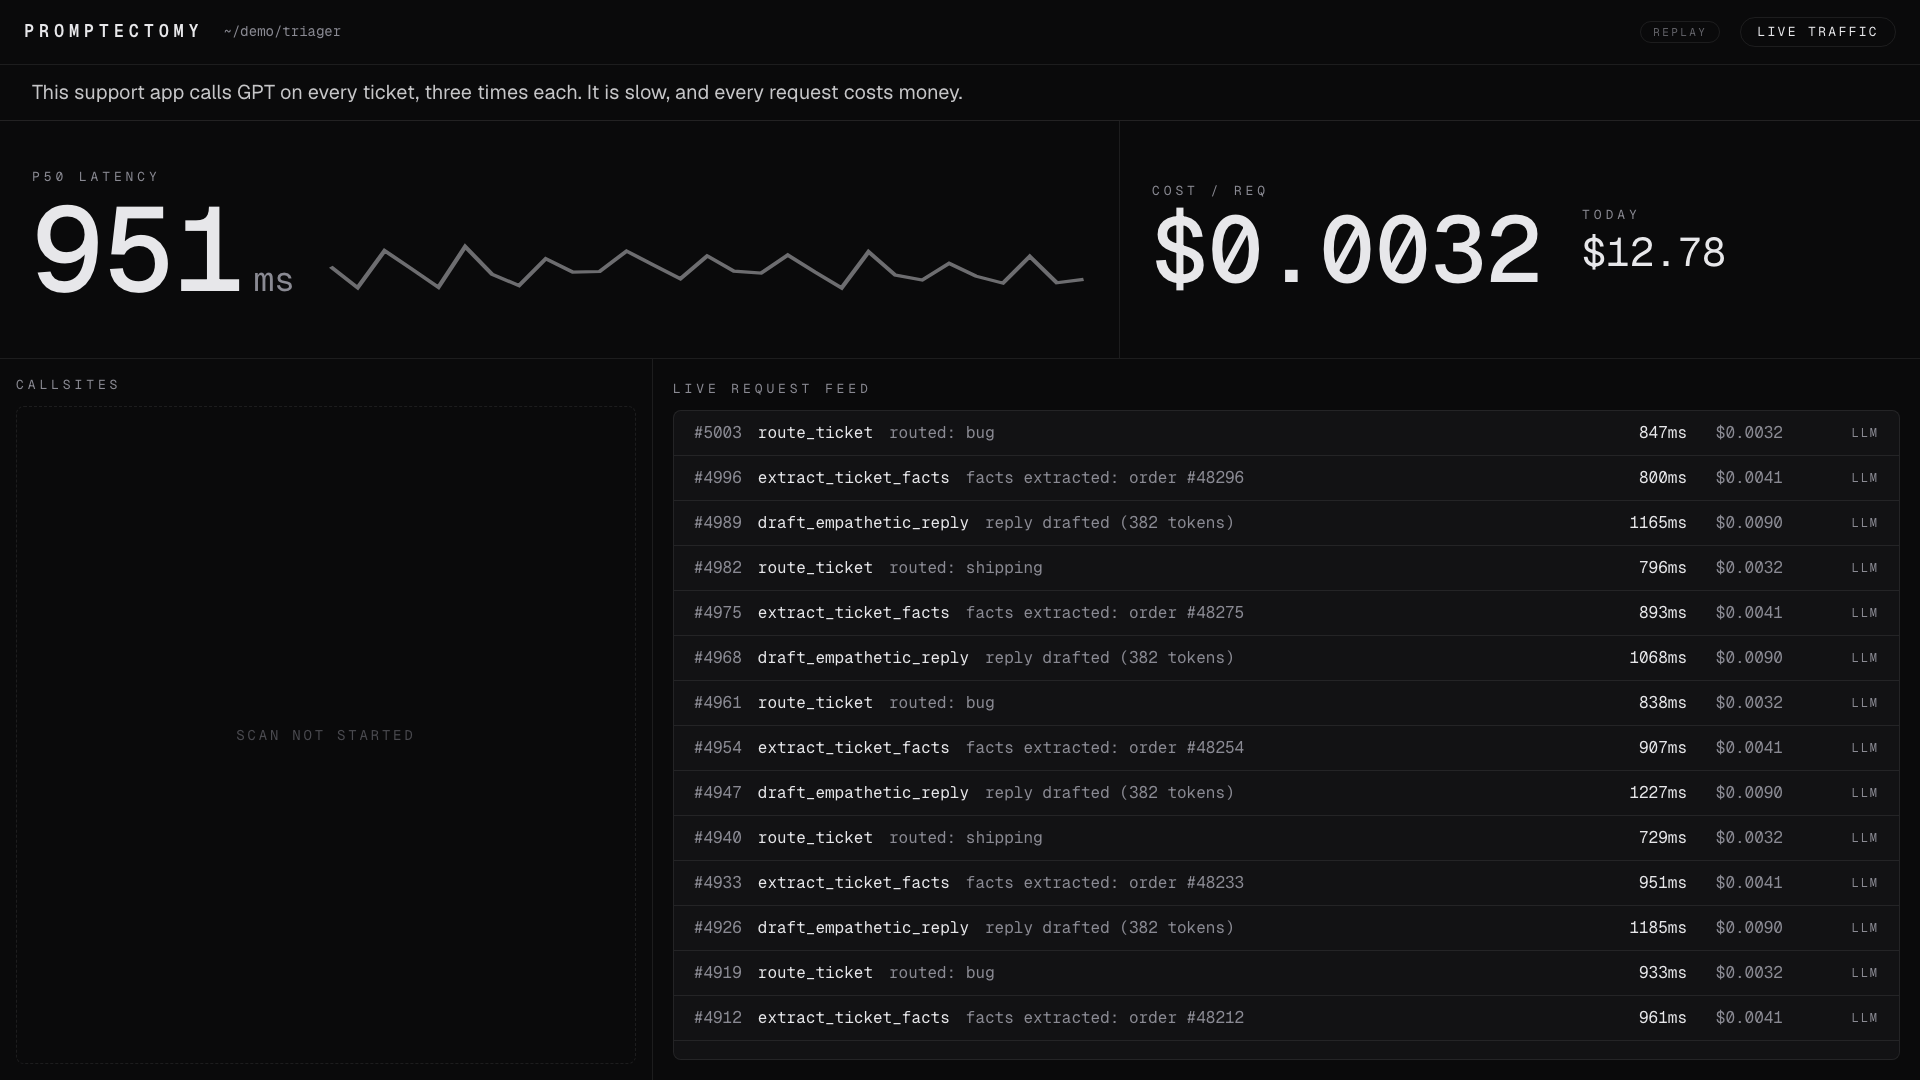
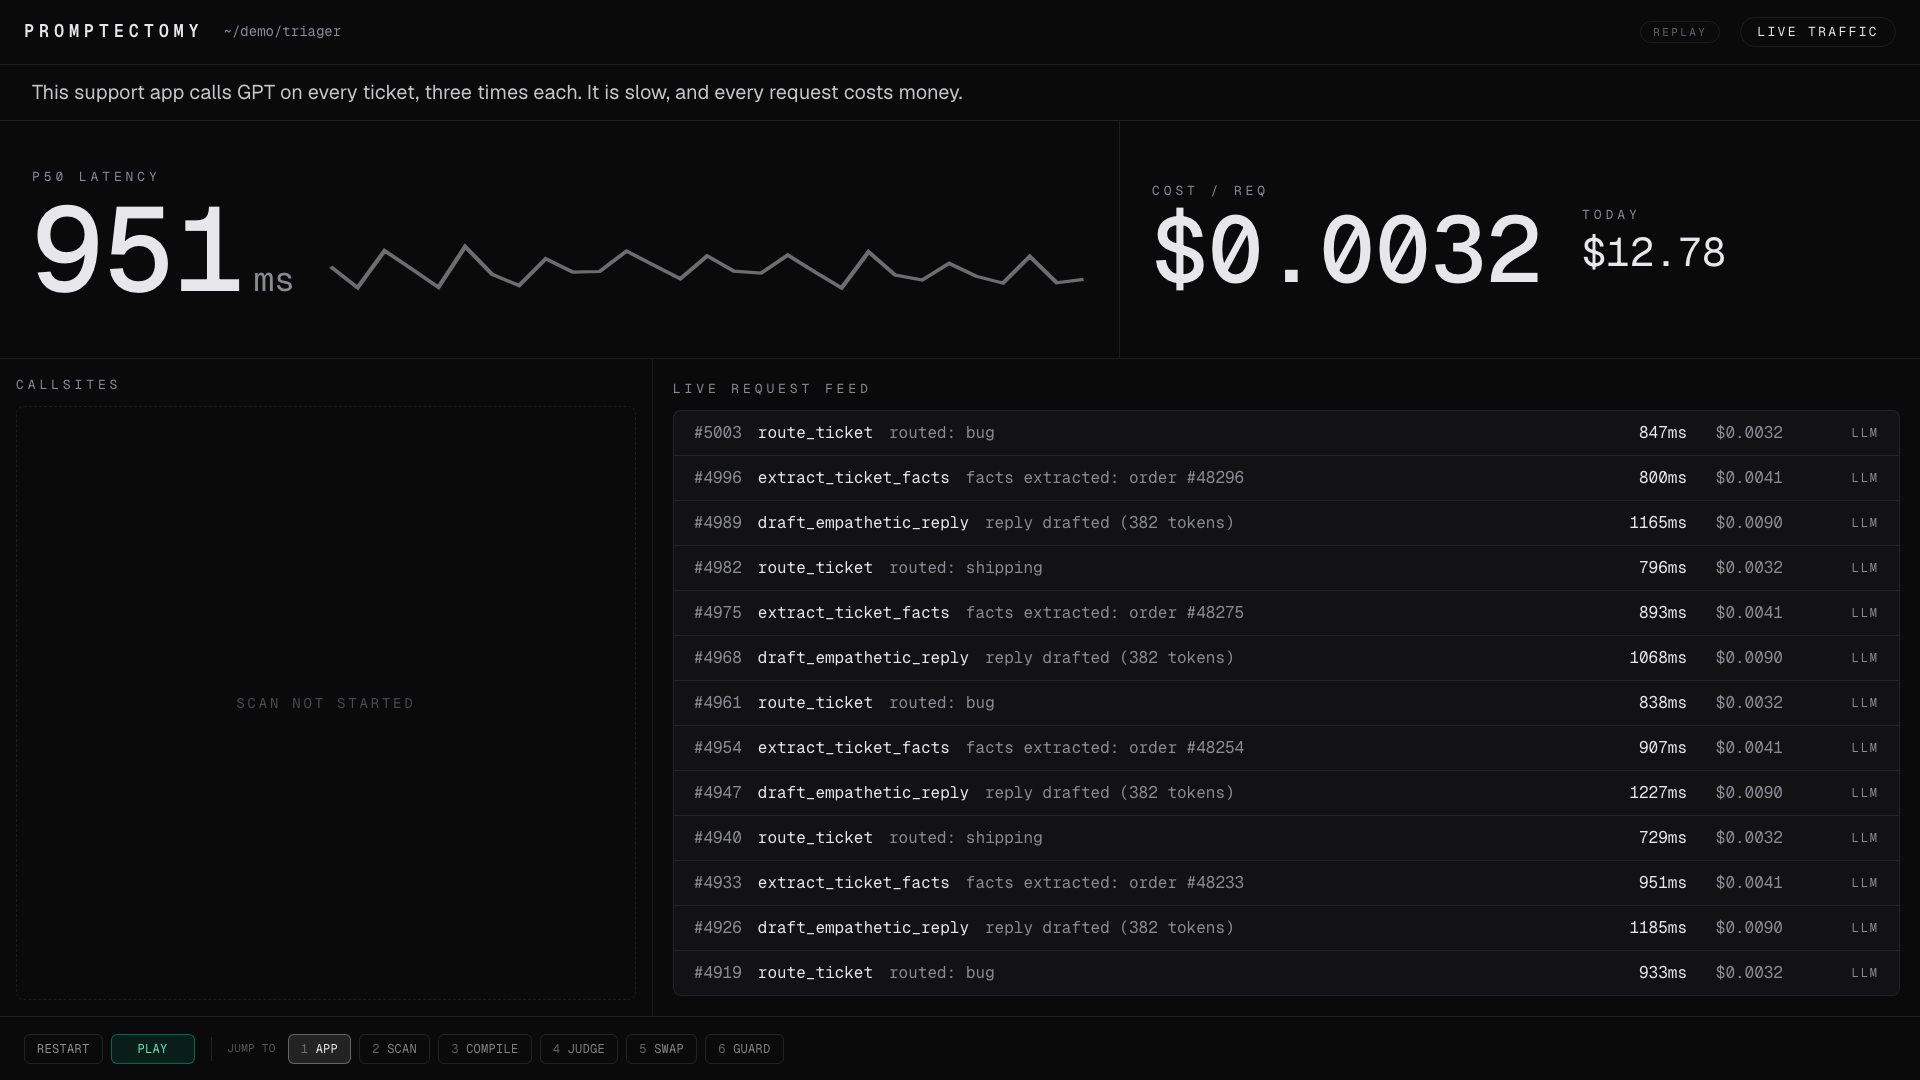
Make the demo interactive: play/pause/restart + jump-to-beat controls
Refactored useEventStream to a playhead model (play, pause, restart, seek-to-beat) while
keeping the ?until= instant-seek path the tests use. Added a bottom control bar so the
presenter can click through the 6 beats, pause on the hot-swap, and replay. tsc clean,
Playwright 8/8, screenshots refreshed.

Claude-Session: https://claude.ai/code/session_015d9CNbHRWcF1xMgNYyVSu5

diff --git a/ui/lib/useEventStream.ts b/ui/lib/useEventStream.ts
@@ -1,18 +1,54 @@
 "use client";
 
-import { useEffect, useReducer, useRef } from "react";
+import { useCallback, useEffect, useRef, useState } from "react";
 import { PipelineEvent, RecordedLine } from "./contracts";
-import { initialState, reduce, type DashState } from "./state";
+import { initialState, reduce, type Beat, type DashState } from "./state";
 
 export interface StreamOptions {
-  // Live SSE endpoint. When set, fixture replay is skipped: same event shape on the wire.
   live?: string | null;
-  // URL serving recorded NDJSON ({at_ms, event} per line). The demo-director source.
   fixture?: string;
-  // Replay speed multiplier: 2 = twice as fast. Ignored for live streams.
   speed?: number;
-  // Deterministic seek: apply every event with at_ms <= until instantly, then hold.
   until?: number | null;
+}
+
+export interface DemoControls {
+  playing: boolean;
+  atEnd: boolean;
+  ready: boolean;
+  play: () => void;
+  pause: () => void;
+  toggle: () => void;
+  restart: () => void;
+  seekBeat: (beat: Beat) => void;
+}
+
+interface Line {
+  at_ms: number;
+  event: ReturnType<typeof RecordedLine.parse>["event"];
+}
+
+const TICK_MS = 60;
+
+function foldTo(lines: Line[], toMs: number): DashState {
+  let s = initialState;
+  for (const { at_ms, event } of lines) if (at_ms <= toMs) s = reduce(s, event);
+  return s;
+}
+
+// The at_ms just before each beat's successor begins, so seeking a beat shows it fully realized.
+function beatEnds(lines: Line[]): Record<number, number> {
+  const firstSeen: Record<number, number> = {};
+  let s = initialState;
+  for (const { at_ms, event } of lines) {
+    s = reduce(s, event);
+    if (firstSeen[s.beat] === undefined) firstSeen[s.beat] = at_ms;
+  }
+  const max = lines.length ? lines[lines.length - 1].at_ms : 0;
+  const ends: Record<number, number> = {};
+  for (let b = 1 as number; b <= 6; b++) {
+    ends[b] = firstSeen[b + 1] !== undefined ? firstSeen[b + 1] - 1 : max;
+  }
+  return ends;
 }
 
 export function useEventStream({
@@ -20,47 +56,99 @@ export function useEventStream({
   fixture = "/fixture",
   speed = 1,
   until = null,
-}: StreamOptions): DashState {
-  const [state, dispatch] = useReducer(reduce, initialState);
-  const timers = useRef<ReturnType<typeof setTimeout>[]>([]);
+}: StreamOptions): { state: DashState; controls: DemoControls } {
+  const [state, setState] = useState<DashState>(initialState);
+  const [playing, setPlaying] = useState(false);
+  const [atEnd, setAtEnd] = useState(false);
+  const [ready, setReady] = useState(false);
 
+  const lines = useRef<Line[]>([]);
+  const ends = useRef<Record<number, number>>({});
+  const maxAt = useRef(0);
+  const head = useRef(0);
+
+  // Live SSE: same wire shape, no player controls.
   useEffect(() => {
-    if (live) {
-      const es = new EventSource(live);
-      es.onmessage = (msg) => {
-        const parsed = PipelineEvent.safeParse(JSON.parse(msg.data));
-        if (parsed.success) dispatch(parsed.data);
-        else console.error("contract violation on live stream", parsed.error.issues);
-      };
-      return () => es.close();
-    }
+    if (!live) return;
+    const es = new EventSource(live);
+    es.onmessage = (msg) => {
+      const parsed = PipelineEvent.safeParse(JSON.parse(msg.data));
+      if (parsed.success) setState((s) => reduce(s, parsed.data));
+      else console.error("contract violation on live stream", parsed.error.issues);
+    };
+    return () => es.close();
+  }, [live]);
 
+  // Load the recorded fixture once.
+  useEffect(() => {
+    if (live) return;
     let cancelled = false;
     (async () => {
       const res = await fetch(fixture);
       const text = await res.text();
       if (cancelled) return;
-      const lines = text
+      const parsed = text
         .split("\n")
         .filter((l) => l.trim().length > 0)
-        .map((l) => RecordedLine.parse(JSON.parse(l)));
-
+        .map((l) => RecordedLine.parse(JSON.parse(l)) as Line);
+      lines.current = parsed;
+      ends.current = beatEnds(parsed);
+      maxAt.current = parsed.length ? parsed[parsed.length - 1].at_ms : 0;
+      setReady(true);
       if (until !== null) {
-        for (const { at_ms, event } of lines) if (at_ms <= until) dispatch(event);
-        return;
-      }
-      for (const { at_ms, event } of lines) {
-        const t = setTimeout(() => dispatch(event), at_ms / speed);
-        timers.current.push(t);
+        head.current = until;
+        setState(foldTo(parsed, until));
+      } else {
+        head.current = 0;
+        setState(initialState);
+        setPlaying(true);
       }
     })();
-
     return () => {
       cancelled = true;
-      for (const t of timers.current) clearTimeout(t);
-      timers.current = [];
     };
-  }, [live, fixture, speed, until]);
+  }, [live, fixture, until]);
 
-  return state;
+  // The playhead loop: advance wall time, re-fold. 144 events is cheap to re-fold each tick.
+  useEffect(() => {
+    if (live || until !== null || !playing) return;
+    const id = setInterval(() => {
+      head.current += TICK_MS * speed;
+      if (head.current >= maxAt.current) {
+        head.current = maxAt.current;
+        setState(foldTo(lines.current, head.current));
+        setPlaying(false);
+        setAtEnd(true);
+        return;
+      }
+      setState(foldTo(lines.current, head.current));
+    }, TICK_MS);
+    return () => clearInterval(id);
+  }, [live, until, playing, speed]);
+
+  const play = useCallback(() => {
+    if (head.current >= maxAt.current) head.current = 0;
+    setAtEnd(false);
+    setPlaying(true);
+  }, []);
+  const pause = useCallback(() => setPlaying(false), []);
+  const toggle = useCallback(() => (playing ? pause() : play()), [playing, play, pause]);
+  const restart = useCallback(() => {
+    head.current = 0;
+    setState(initialState);
+    setAtEnd(false);
+    setPlaying(true);
+  }, []);
+  const seekBeat = useCallback((beat: Beat) => {
+    const target = ends.current[beat] ?? 0;
+    head.current = target;
+    setPlaying(false);
+    setAtEnd(target >= maxAt.current);
+    setState(foldTo(lines.current, target));
+  }, []);
+
+  return {
+    state,
+    controls: { playing, atEnd, ready, play, pause, toggle, restart, seekBeat },
+  };
 }

diff --git a/ui/components/DemoControls.tsx b/ui/components/DemoControls.tsx
@@ -1,0 +1,62 @@
+"use client";
+
+import type { DemoControls as Controls } from "@/lib/useEventStream";
+import type { Beat } from "@/lib/state";
+
+const BEATS: { n: Beat; label: string }[] = [
+  { n: 1, label: "App" },
+  { n: 2, label: "Scan" },
+  { n: 3, label: "Compile" },
+  { n: 4, label: "Judge" },
+  { n: 5, label: "Swap" },
+  { n: 6, label: "Guard" },
+];
+
+const btn =
+  "rounded-md border px-3 py-1.5 font-mono text-xs uppercase tracking-wide transition-colors";
+
+export function DemoControls({ controls, beat }: { controls: Controls; beat: Beat }) {
+  if (controls.playing === undefined) return null;
+  const playLabel = controls.playing ? "Pause" : controls.atEnd ? "Replay" : "Play";
+  return (
+    <div
+      data-testid="controls"
+      className="flex h-16 shrink-0 items-center gap-2 border-t border-white/10 bg-ink px-6"
+    >
+      <button
+        onClick={controls.restart}
+        className={`${btn} border-white/10 text-fg/60 hover:border-white/25 hover:text-fg`}
+      >
+        Restart
+      </button>
+      <button
+        onClick={controls.toggle}
+        data-testid="playpause"
+        className={`${btn} min-w-[84px] border-emerald-400/40 bg-emerald-400/10 text-emerald-300 hover:bg-emerald-400/20`}
+      >
+        {playLabel}
+      </button>
+      <div className="mx-2 h-6 w-px bg-white/10" />
+      <span className="mr-1 font-mono text-[11px] uppercase tracking-wide text-fg/35">
+        Jump to
+      </span>
+      {BEATS.map(({ n, label }) => {
+        const active = beat === n;
+        return (
+          <button
+            key={n}
+            onClick={() => controls.seekBeat(n)}
+            aria-current={active}
+            className={`${btn} ${
+              active
+                ? "border-white/30 bg-white/10 text-fg"
+                : "border-white/10 text-fg/55 hover:border-white/20 hover:text-fg"
+            }`}
+          >
+            <span className="tabular-nums text-fg/40">{n}</span>&nbsp;{label}
+          </button>
+        );
+      })}
+    </div>
+  );
+}

diff --git a/ui/components/Dashboard.tsx b/ui/components/Dashboard.tsx
@@ -6,6 +6,7 @@ import { Narrator } from "./Narrator";
 import { MeterStrip } from "./MeterStrip";
 import { CallsiteWall } from "./CallsiteWall";
 import { MainStage } from "./MainStage";
+import { DemoControls } from "./DemoControls";
 
 export function Dashboard({
   speed,
@@ -16,7 +17,7 @@ export function Dashboard({
   until: number | null;
   live: string | null;
 }) {
-  const state = useEventStream({ live, speed, until });
+  const { state, controls } = useEventStream({ live, speed, until });
 
   return (
     <main
@@ -31,6 +32,7 @@ export function Dashboard({
         <CallsiteWall state={state} />
         <MainStage state={state} />
       </div>
+      {live === null ? <DemoControls controls={controls} beat={state.beat} /> : null}
     </main>
   );
 }
